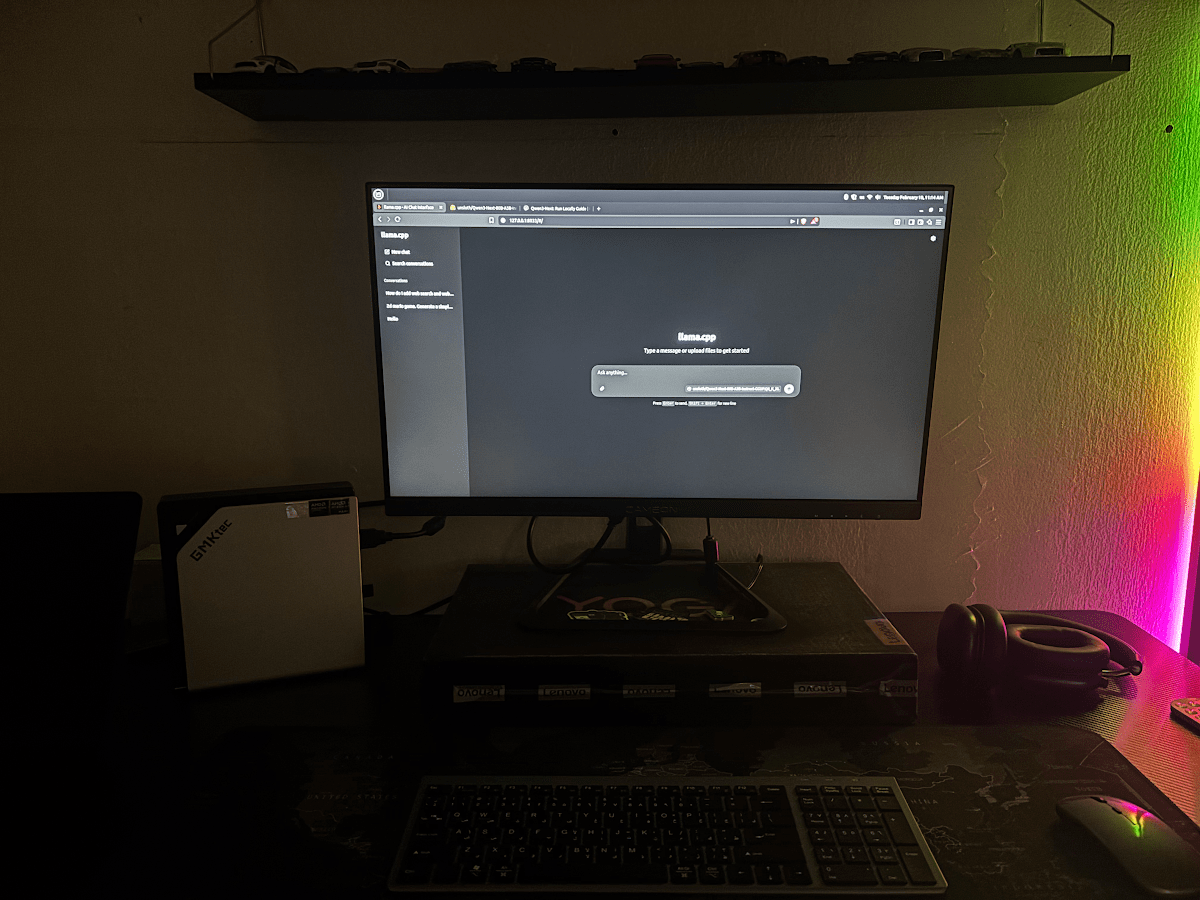
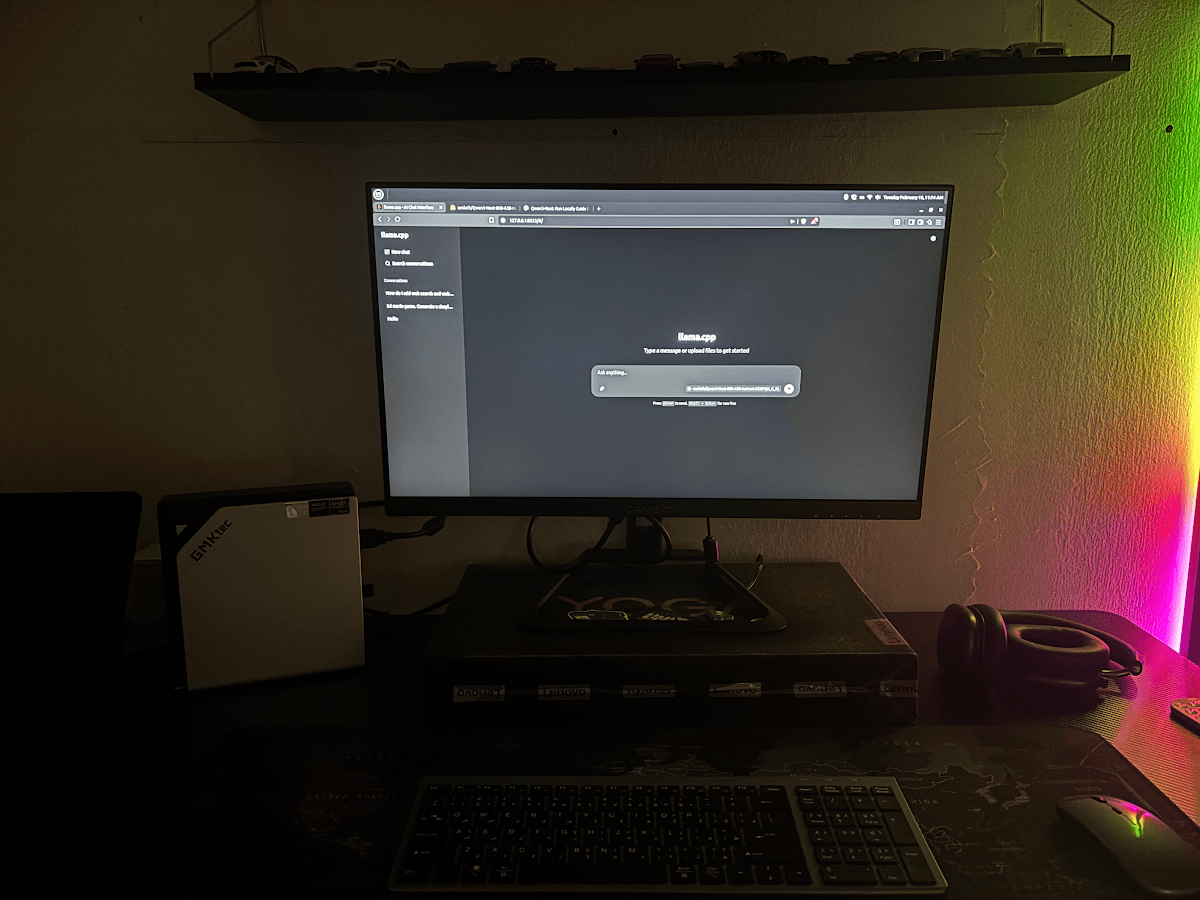
Remove phone number, add location to contact, switch blog routing to query params
- Remove phone number from contact section, i18n files, JSON-LD, CSS, and i18n.js
- Add location placeholder to main page contact section for symmetry (6 items)
- Switch blog post URLs from /blog/:slug to /blog.html?slug= for Cloudflare Pages compatibility
- Remove Netlify blog redirect rules from netlify.toml
- Clean up dead phone-related CSS rules and i18n references

Changed region(s): [[0.8942, 0.2489, 1.0, 0.7156], [0.9558, 0.1244, 1.0, 0.2178], [0.925, 0.7467, 1.0, 0.8089]]

diff --git a/src/js/blog.js b/src/js/blog.js
@@ -310,7 +310,7 @@ class BlogManager {
       <article class="blog-card" dir="${dir}">
         <div class="blog-card-header">
           <h3 class="blog-card-title">
-            <a href="/blog/${encodeURIComponent(post.slug)}">${this.escapeHtml(post.title)}</a>
+            <a href="/blog.html?slug=${encodeURIComponent(post.slug)}">${this.escapeHtml(post.title)}</a>
           </h3>
           <span class="blog-card-lang">${post.lang.toUpperCase()}</span>
         </div>
@@ -606,7 +606,7 @@ class BlogManager {
    * Attach social share button listeners
    */
   attachShareListeners() {
-    const pageUrl = encodeURIComponent(`${window.location.origin}/blog/${this.slug}`);
+    const pageUrl = encodeURIComponent(`${window.location.origin}/blog.html?slug=${this.slug}`);
     const pageTitle = encodeURIComponent(document.title);
 
     const whatsappBtn = document.getElementById('whatsapp-share');

diff --git a/src/css/style.css b/src/css/style.css
@@ -496,14 +496,14 @@ button, input[type="submit"], input[type="button"] {
 }
 
 /* Contact icon colors - light theme */
-[data-theme="light"] .icon-phone { color: brown; }
+[data-theme="light"] .icon-location { color: #e74c3c; }
 [data-theme="light"] .icon-linkedin { color: darkblue; }
 [data-theme="light"] .icon-github { color: #333; }
 [data-theme="light"] .icon-devto { color: #000; }
 [data-theme="light"] .icon-stackoverflow { color: orange; }
 
 /* Contact icon colors - dark theme (lighter colors for visibility) */
-[data-theme="dark"] .icon-phone { color: #4ade80; } /* light green */
+[data-theme="dark"] .icon-location { color: #f87171; }
 [data-theme="dark"] .icon-linkedin { color: #60a5fa; } /* light blue */
 [data-theme="dark"] .icon-github,
 [data-theme="dark"] .icon-devto {

diff --git a/src/js/i18n.js b/src/js/i18n.js
@@ -17,11 +17,9 @@ function updateTranslations() {
     } else if (element.tagName === 'OPTION') {
       element.textContent = translation;
     } else if (element.tagName === 'A') {
-      // Handle contact links - only update href for email and phone
+      // Handle contact links - update href for email
       if (element.classList.contains('contact-email')) {
         element.href = `mailto:${translation}`;
-      } else if (element.classList.contains('contact-phone')) {
-        element.href = `tel:${translation}`;
       }
       // Social links (linkedin, github, devto, stackoverflow) keep their href, only update text
       element.textContent = translation;

diff --git a/scripts/blog-metadata-generator.js b/scripts/blog-metadata-generator.js
@@ -65,7 +65,7 @@ export function blogMetadataGenerator() {
           const slug = post.slug;
           const fileName = `post-${slug}.html`;
           const filePath = path.join(blogDir, fileName);
-          const postUrl = `https://iamamjad.com/blog/${slug}`;
+          const postUrl = `https://iamamjad.com/blog.html?slug=${slug}`;
 
           const html = await generateBlogPostHtml(post, postUrl, blogTemplatePath);
 

diff --git a/index.html b/index.html
@@ -54,7 +54,6 @@
     "description": "Software Engineer & Tech Enthusiast with expertise in full-stack development, cloud solutions, and mobile applications.",
     "url": "https://iamamjad.com/",
     "email": "amjadmh73@gmail.com",
-    "telephone": "+966531577381",
     "address": {
       "@type": "PostalAddress",
       "addressLocality": "Riyadh",

diff --git a/contact.html b/contact.html
@@ -51,7 +51,6 @@
       "name": "Amjad Abujamous",
       "jobTitle": "Software Engineer",
       "email": "amjadmh73@gmail.com",
-      "telephone": "+966531577381",
       "url": "https://iamamjad.com/",
       "address": {
         "@type": "PostalAddress",

diff --git a/CLAUDE.md b/CLAUDE.md
@@ -4,47 +4,49 @@ This file provides guidance to Claude Code (claude.ai/code) when working with co
 
 ## Project Overview
 
-This is a personal website for Amjad Abujamous, Software Engineer & Tech Enthusiast, built with Vite and Handlebars. The site is bilingual (English/Arabic) with RTL support, dark/light theme switching, and comprehensive SEO optimization.
+Personal website for Amjad Abujamous, built with Vite and Handlebars. Bilingual (English/Arabic) with RTL support, dark/light theme switching, and SEO optimization. Hosted on Netlify at https://iamamjad.com/.
 
 ## Build & Development Commands
 
 ```bash
 npm run dev      # Start dev server at http://localhost:3000
-npm run build    # Build for production (outputs to dist/)
+npm run build    # Downloads blog images from Google Drive, then runs vite build (outputs to dist/)
 npm run preview  # Preview production build
 ```
+
+Note: `npm run build` first executes `scripts/download-blog-images.js` (fetches blog post images from Google Drive) before running `vite build`. The build requires network access to the Google Apps Script API.
 
 ## Architecture
 
 ### Entry Points
 
-Two HTML pages configured in `vite.config.js`:
-- `index.html` - main site with Handlebars partials and JSON-LD structured data
-- `blog.html` - blog listing page
+Three HTML pages configured in `vite.config.js`, each using Handlebars partials:
+- `index.html` — main single-page site with all sections, JSON-LD structured data
+- `blog.html` — blog post view page (uses `?slug=` query param)
+- `contact.html` — standalone contact form page
 
-### Component System
-
-Uses **Handlebars partials** in `src/partials/` assembled at build time. Partials include navigation (`sidebar.hbs`, `mobile-nav.hbs`, `bottom-nav.hbs`) and content sections (`home.hbs`, `about.hbs`, etc.).
+All three pages share the same entry point `src/main.js` and the same navigation partials (sidebar, mobile-nav, bottom-nav).
 
 ### JavaScript Module System
 
-Entry point `src/main.js` imports modules in order:
-1. `css/style.css` - all styles (single file)
-2. `js/state.js` - global state (AppState class)
-3. `js/i18n.js` - internationalization
-4. `js/theme.js` - theme switching (ThemeManager class)
-5. `js/main.js` - DOM interactions
-6. `js/blogApi.js` - blog API service (Google Apps Script backend)
-7. `js/blog.js` - blog UI rendering and filtering
+Entry point `src/main.js` imports modules in this order:
+1. `css/style.css` — all styles (single file)
+2. `js/state.js` — global state (`AppState` class, exposed as `window.appState`)
+3. `js/i18n.js` — internationalization (applies translations from `data-i18n` attributes)
+4. `js/theme.js` — theme switching (`ThemeManager` class)
+5. `js/main.js` — DOM interactions, navigation, section visibility
+6. `js/accordion.js` — mobile accordion system (`MobileAccordion`, exposed as `window.mobileAccordion`)
+7. `js/blog.js` — blog UI rendering, filtering (imports `js/blogApi.js` internally)
+8. `js/contact.js` — contact form submission with bot detection
 
-All modules initialize via `DOMContentLoaded` event listeners.
+All modules initialize via `DOMContentLoaded` event listeners. Modules that need cross-module communication use `window.appState.subscribe()`.
 
 ### State Management
 
 Custom reactive state via `AppState` class (`src/js/state.js`):
 - **Global instance**: `window.appState`
 - **Pattern**: Observer pattern with subscribe/notify
-- Handles language switching, translation loading, RTL/LTR, localStorage persistence
+- Handles language switching, translation loading, RTL/LTR direction, localStorage persistence
 
 ```javascript
 await window.appState.changeLanguage('ar');
@@ -53,9 +55,9 @@ const translation = window.appState.t('sections.home.title');
 
 ### Internationalization (i18n)
 
-Translation files in `public/i18n/`: `en.json` and `ar.json`
+Translation files: `public/i18n/en.json` and `public/i18n/ar.json`
 
-HTML elements use `data-i18n` attributes:
+HTML elements use `data-i18n` attributes for translatable text:
 ```html
 <h1 data-i18n="sections.home.title">Welcome</h1>
 ```
@@ -64,30 +66,34 @@ The i18n system handles different element types:
 - `<input>`/`<textarea>`: sets `placeholder`
 - `<meta>`: sets `content`
 - `<a>` with `.contact-email`: sets `href` to `mailto:` + translation
-- `<a>` with `.contact-phone`: sets `href` to `tel:` + translation
 - `<a>` social links (`.contact-linkedin`, `.contact-github`, etc.): only updates text, keeps original `href`
 - All other elements: sets `textContent`
 
 ### Theme System
 
-`ThemeManager` class (`src/js/theme.js`) manages dark/light theme:
+`ThemeManager` class (`src/js/theme.js`):
 - Uses `localStorage` with `prefers-color-scheme` fallback
 - Sets `data-theme` attribute on `<html>`
 - CSS variables in `style.css` respond to `[data-theme="dark"]` and `[data-theme="light"]`
 
 ### Blog System
 
-The blog uses a Google Apps Script backend with Google Sheets as the data store:
-- `src/js/blogApi.js` - API client (`BlogAPI` class) for fetching posts
-- `src/js/blog.js` - UI rendering, filtering by language/tag
-- `blog.html` - Single post view page (uses `?slug=` query param)
+Google Apps Script backend with Google Sheets as data store:
+- `src/js/blogApi.js` — API client (`BlogAPI` class) for fetching posts
+- `src/js/blog.js` — UI rendering, filtering by language/tag
+- `blog.html` — single post view page (uses `?slug=` query param)
 - See `BLOG_SETUP.md` for backend configuration
 
-### Build Plugins
+### Build Plugins (vite.config.js)
 
-Custom Vite plugins in the build:
-- **SEO Content Injector** (`scripts/seo-content-injector.js`): Injects English translations into built HTML for search engine crawlers
-- **Netlify Config Copy**: Copies `netlify.toml` to `dist/` after build
+Three custom Vite plugins run during build:
+1. **SEO Content Injector** (`scripts/seo-content-injector.js`): Injects English translations into built HTML for search engine crawlers
+2. **Blog Metadata Generator** (`scripts/blog-metadata-generator.js`): Fetches all blog posts from the API and generates individual HTML files at `dist/blog/post-{slug}.html` with proper Open Graph/Twitter Card metadata for social sharing
+3. **Netlify Config Copy**: Copies `netlify.toml` to `dist/` after build
+
+### Netlify Routing
+
+`netlify.toml` maps clean blog URLs (`/blog/:slug`) to pre-rendered files (`/blog/post-:slug.html`). Section URLs like `/about`, `/projects` redirect to hash routes on `index.html`.
 
 ## Working with Content
 
@@ -106,10 +112,10 @@ Single file `src/css/style.css`:
 
 ### SEO & Metadata
 
-`index.html` contains Open Graph, Twitter Cards, and JSON-LD structured data (Person and WebSite schemas). When updating personal info, update both meta tags and structured data.
+`index.html` contains Open Graph, Twitter Cards, and JSON-LD structured data (Person and WebSite schemas). When updating personal info, update both meta tags and structured data. Blog posts get individual metadata via the Blog Metadata Generator build plugin.
 
 ## Deployment
 
 - Main branch: `master`
-- Hosted on Netlify at https://iamamjad.com/
 - Build output: `dist/` directory
+- Deployed on Netlify

diff --git a/AGENTS.md b/AGENTS.md
@@ -97,7 +97,7 @@ npm run preview  # Preview production build locally
 
 **Internationalization:**
 - Add `data-i18n="key.path"` attributes to all translatable elements
-- i18n system handles: inputs/textarea (placeholder), meta tags (content), anchors (href for email/phone, text for social), other elements (textContent)
+- i18n system handles: inputs/textarea (placeholder), meta tags (content), anchors (href for email, text for social), other elements (textContent)
 
 **Accessibility:**
 - Include ARIA attributes for interactive elements: `aria-expanded`, `aria-hidden`, `aria-busy`
